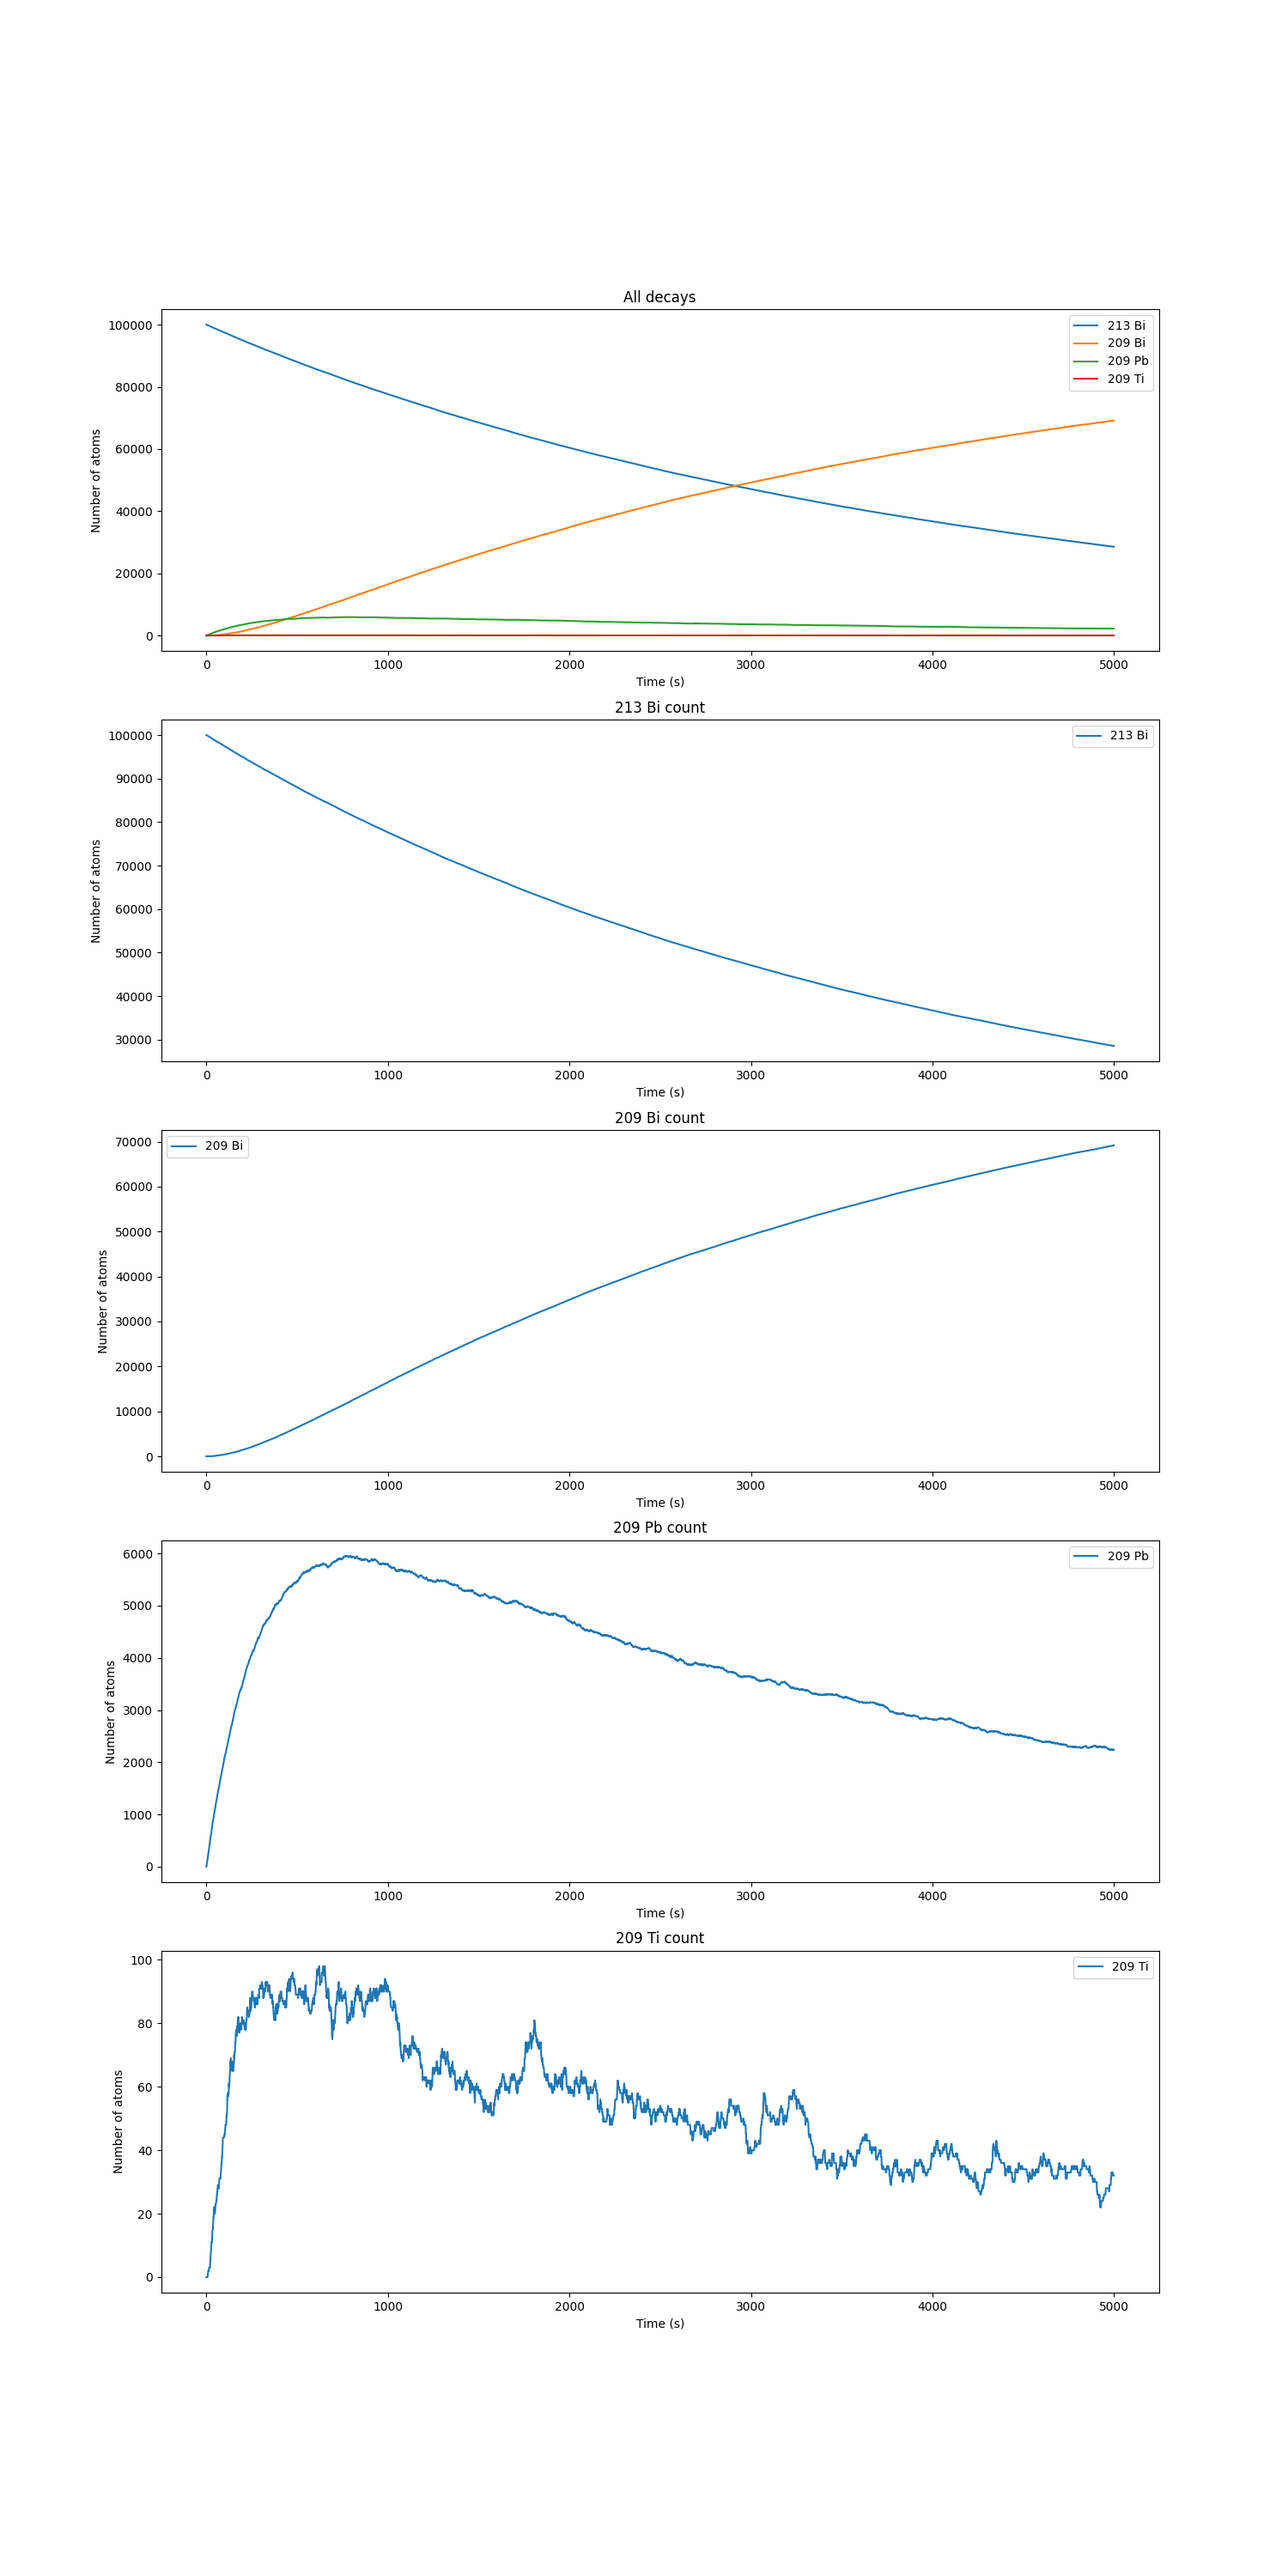
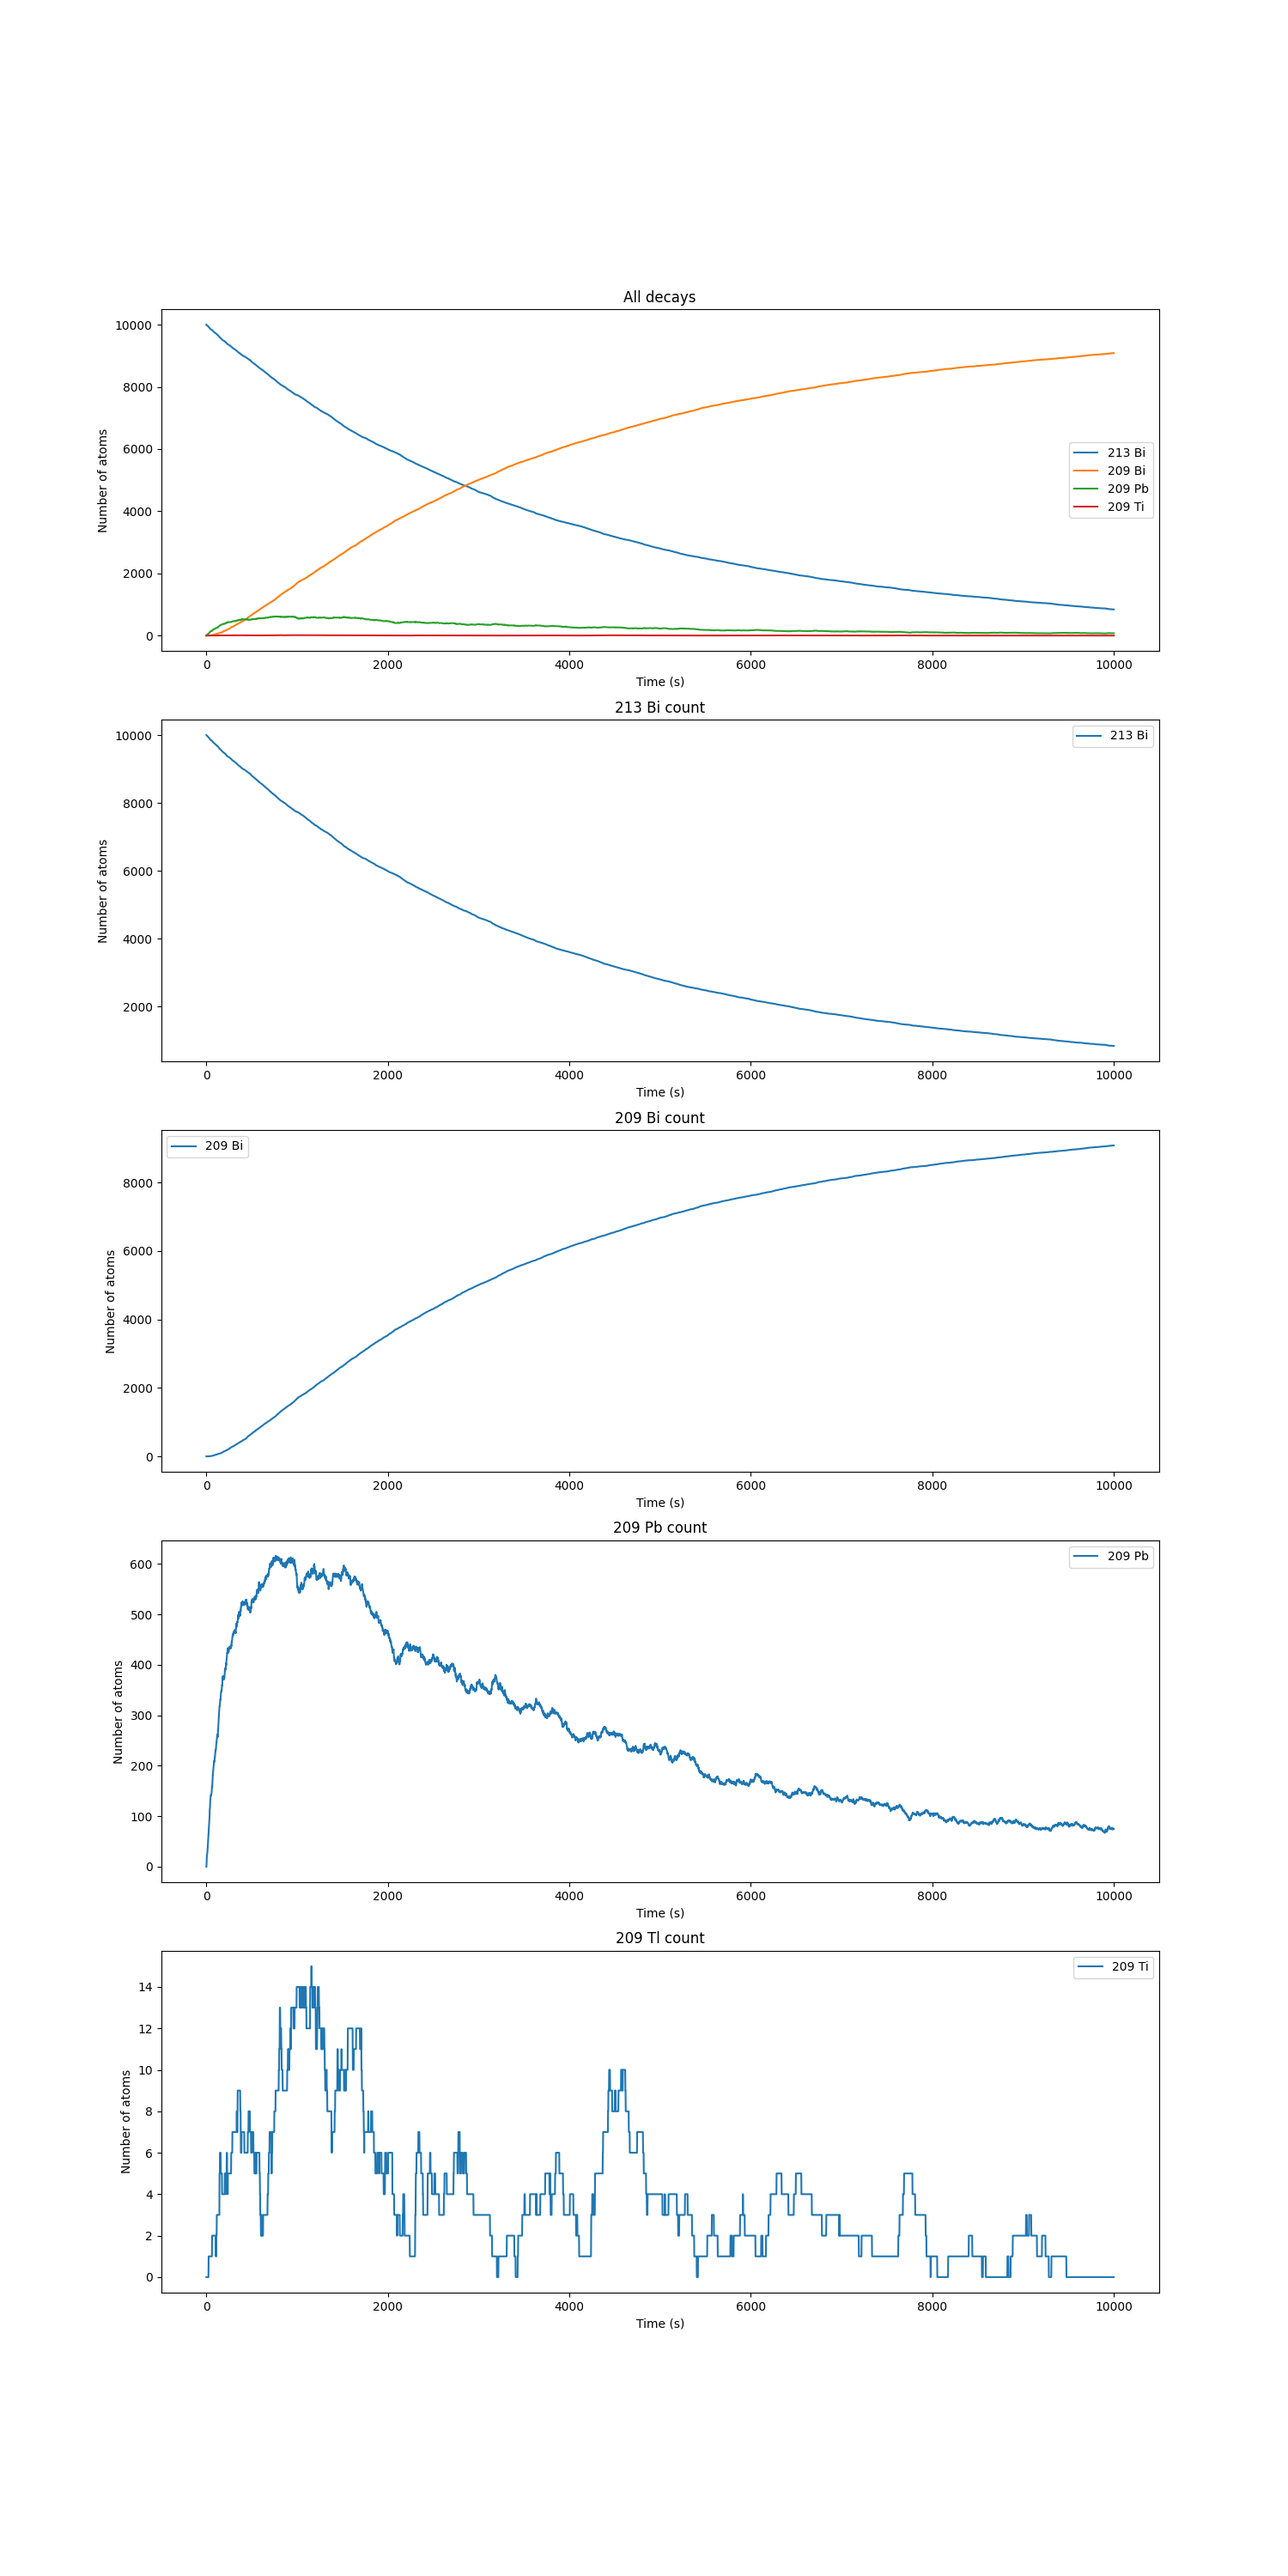
starting ps-4

diff --git a/ps-4/problem1.py b/ps-4/problem1.py
@@ -1,0 +1,63 @@
+import numpy as np
+import matplotlib.pyplot as plt
+
+rho = 6.022 * 10 ** 28 # m^-3
+theta = 428 #K
+V = 1000e-6 #m
+kb = 1.38 * 10 ** -23 #m^2 kg s*-2 K^-1
+N = 50
+xp, wp = np.polynomial.legendre.leggauss(N)
+def Integral(x=None):
+    return(np.exp(x) * (x ** 4))/((np.exp(x) - 1) ** 2)
+
+def func_rescale(xp=None, range=None):
+    weight = (range[1] - range[0]) * 0.5
+    x = range[0] + 0.5 * (range[1] - range[0]) * (xp + 1.)
+    return(weight * Integral(x=x))
+
+def const_Cv(V, rho, theta, kb, T):
+    return 9*V*rho*kb*((T/theta) ** 3)
+
+def cv(T, wp, xp):
+    constant = const_Cv(V, rho, theta, kb, T)
+    range = [0, theta/T]
+    gauss_integral = constant * (func_rescale(xp, range = range) * wp).sum()
+    return gauss_integral
+
+print(f"single heat capacity for T = 50 K: {cv(50, wp, xp)}")
+
+def plot_cv(wp, xp):
+    T = np.arange(5, 500)
+    cV = np.zeros(len(T))
+
+    i = 0
+    for t in T:
+        cV[i] = cv(T[i], wp, xp)
+        i+=1
+    return T, cV
+
+T, cV = plot_cv(wp, xp)
+
+fig, ax = plt.subplots()
+
+ax.plot(T, cV)
+plt.savefig("ps-4/plots/heatCapacity")
+
+N_list = [10, 20, 30, 40, 50, 60, 70]
+
+xpwp = []
+Ts = []
+cVs = []
+for n in N_list:
+    xpwp.append(np.polynomial.legendre.leggauss(n))
+    T, cV = plot_cv(np.polynomial.legendre.leggauss(n), xp)
+    Ts.append(T)
+    cVs.append(cV)
+
+fig, ax = plt.subplots()
+for i in range(len(N_list)):
+    ax.plot(Ts[i], cV[i], label = N_list[i])
+
+ax.legend()
+
+plt.savefig("ps-4/plots/heatCapacityConvergence")

diff --git a/ps-3/problem2.py b/ps-3/problem2.py
@@ -2,7 +2,7 @@ from random import random
 import numpy as np
 import matplotlib.pyplot as plt
 
-NbigBi = 100000
+NbigBi = 10000
 NTi = 0
 NBi = 0
 NPb = 0
@@ -17,7 +17,7 @@ pPb2Bi = 1 - 2 ** (-h/Pbtau)# Decay of lead 209 atom
 pTi2Pb = 1 - 2 ** (-h/Titau)# Decay of Ti 209 atom
 pBigBi2Ti = 1 - 2 ** (-h/BigBiTau)# Decay of Bi 213 atom
 
-tmax = 5000
+tmax = 10000
 
 tpoints = np.arange(0, tmax, h)
 
@@ -101,7 +101,7 @@ axes[3].set_ylabel("Number of atoms")
 axes[3].legend()
 
 axes[4].plot(tpoints, Tipoints, label = "209 Ti")
-axes[4].set_title("209 Ti count")
+axes[4].set_title("209 Tl count")
 axes[4].set_xlabel("Time (s)")
 # ax[4]es[1].set_xlabel("Time (s)")2
 axes[4].set_ylabel("Number of atoms")

diff --git a/ps-3/problem3.py b/ps-3/problem3.py
@@ -1,0 +1,20 @@
+import numpy as np
+import matplotlib.pyplot as plt
+
+
+T1= 3.053 * 60
+N = 1000
+mu = np.log(2)/(T1)
+z = np.random.rand(N)
+x = -(1/mu) * (np.log(1 - z))
+y = np.arange(999, -1, -1)
+x = np.sort(x)
+
+fig, ax = plt.subplots()
+
+ax.plot(x, y)
+ax.set_xlabel("time (s)")
+ax.set_ylabel("Number of  $Tl^{209}$")
+ax.set_title("Decay of Thallium")
+
+plt.savefig("ps-3/plots/EfficientDecay")
